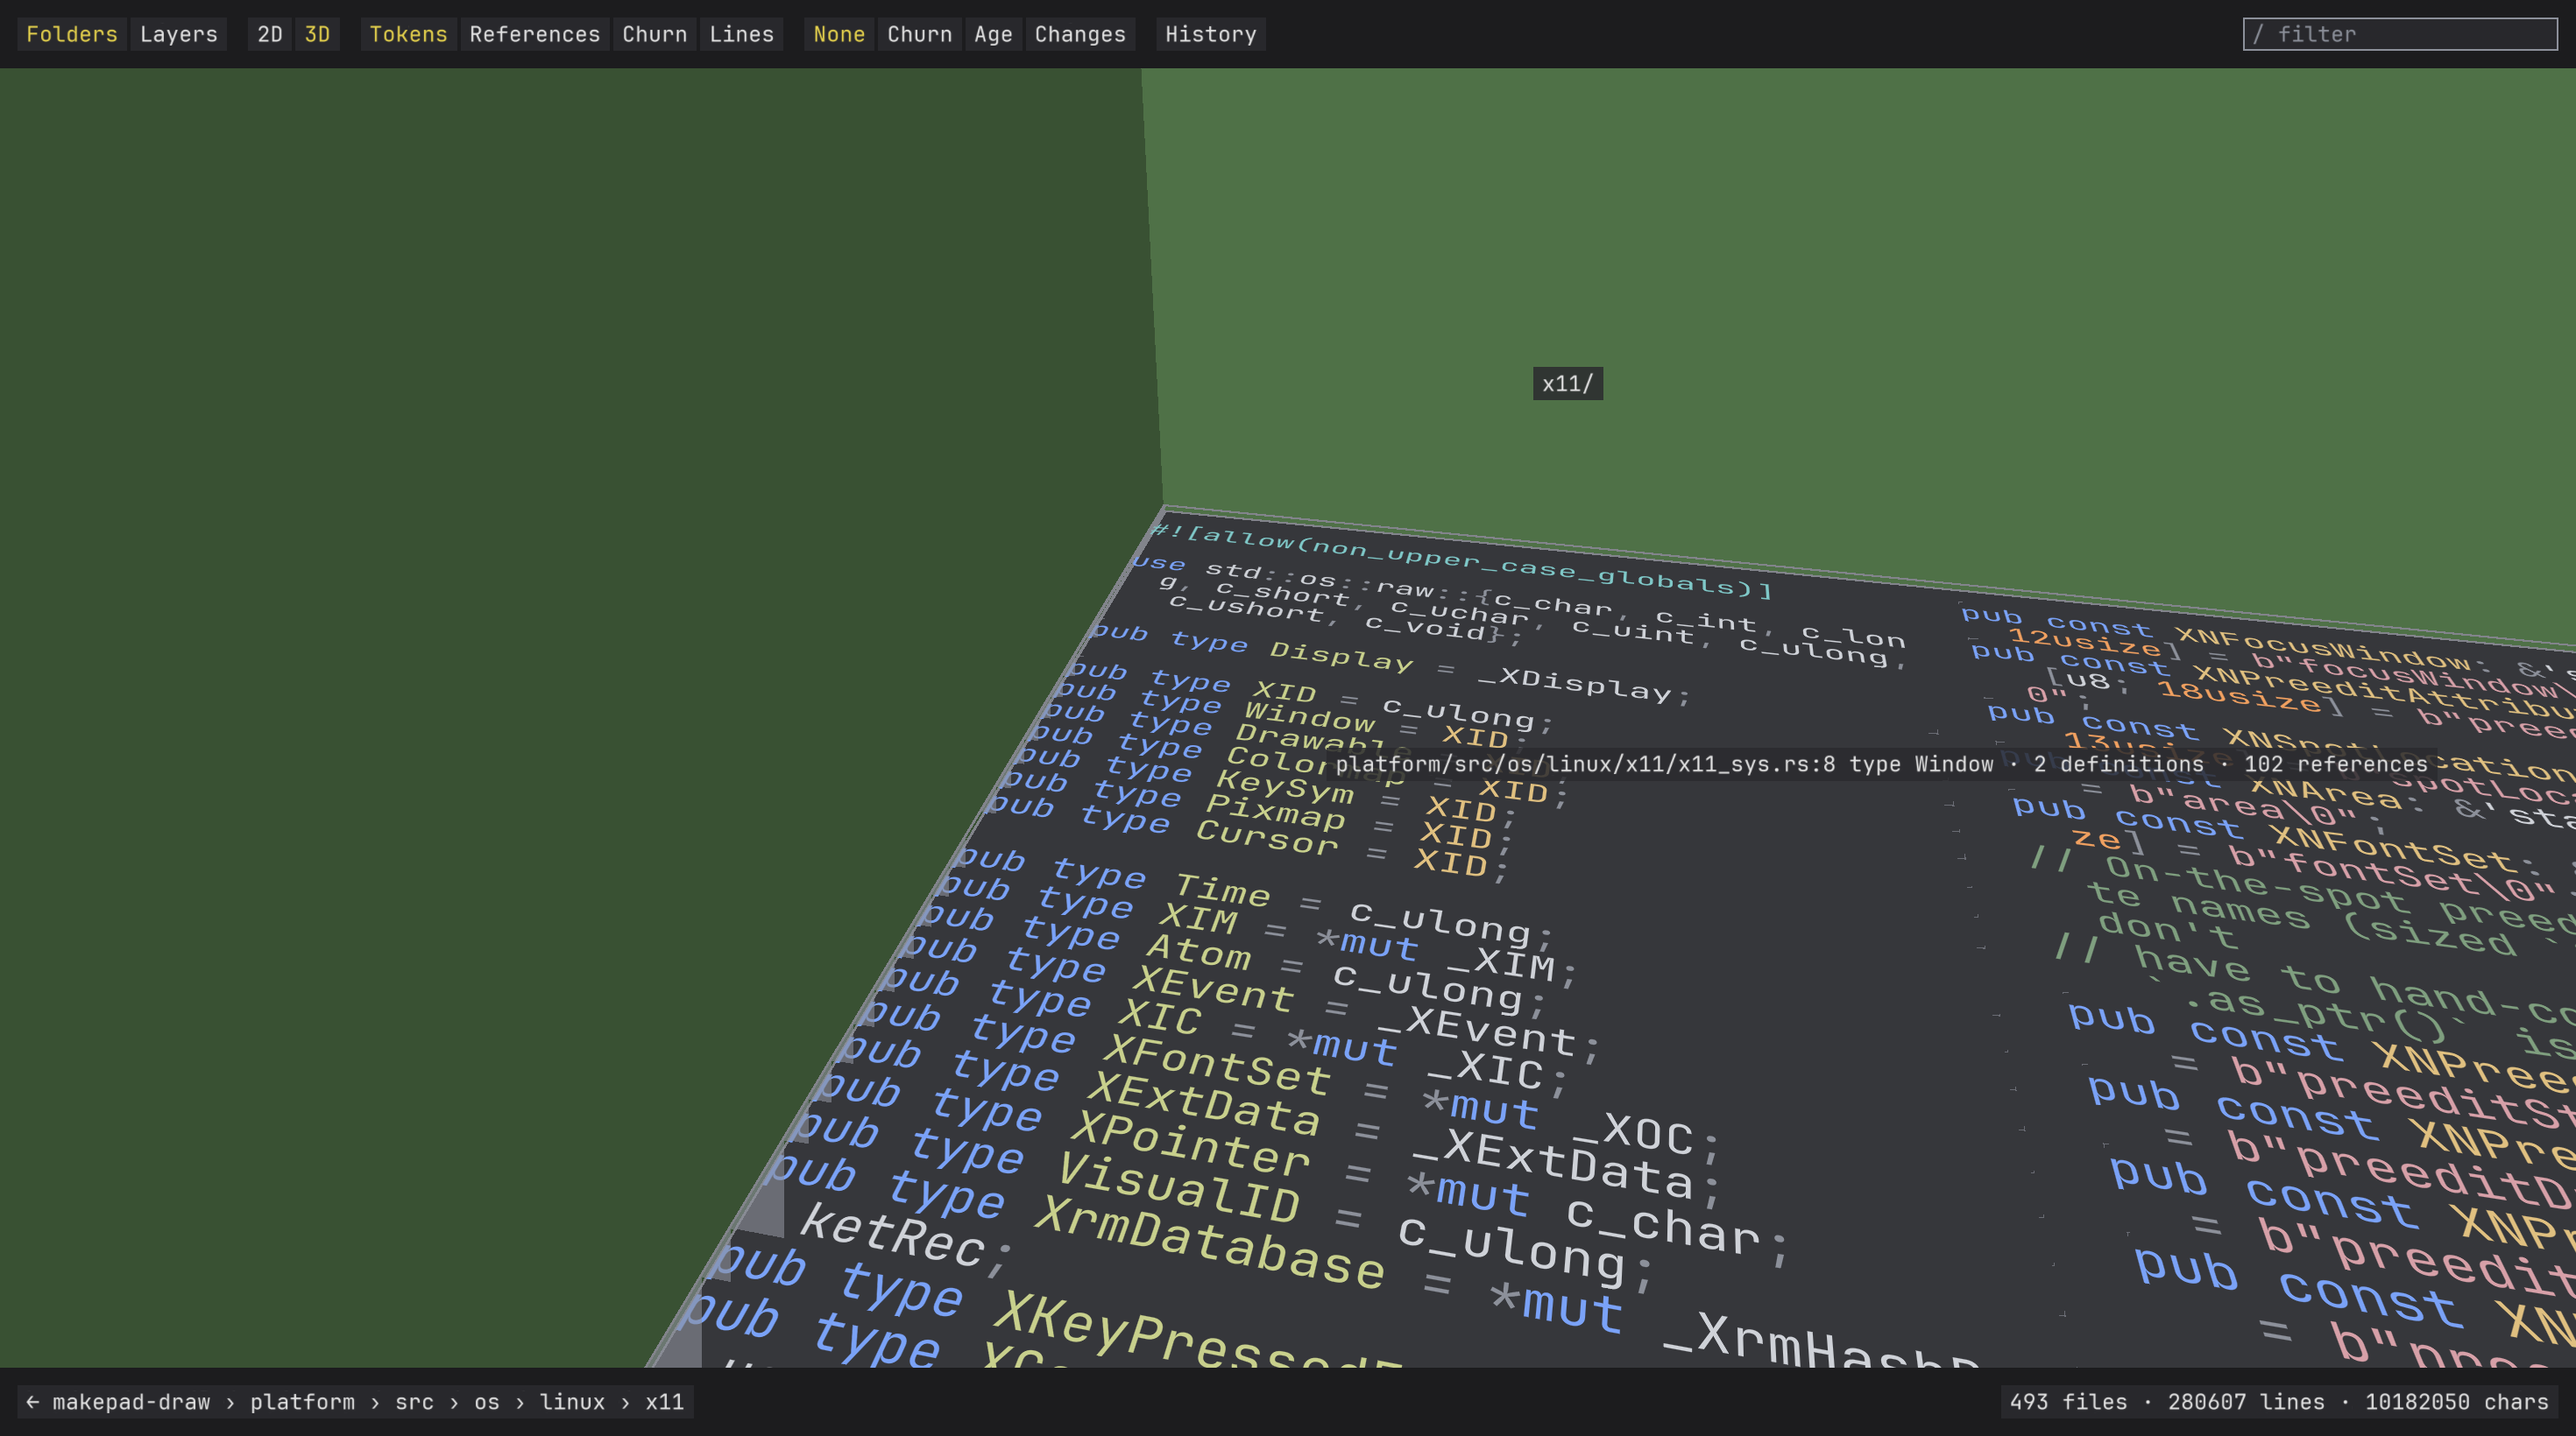
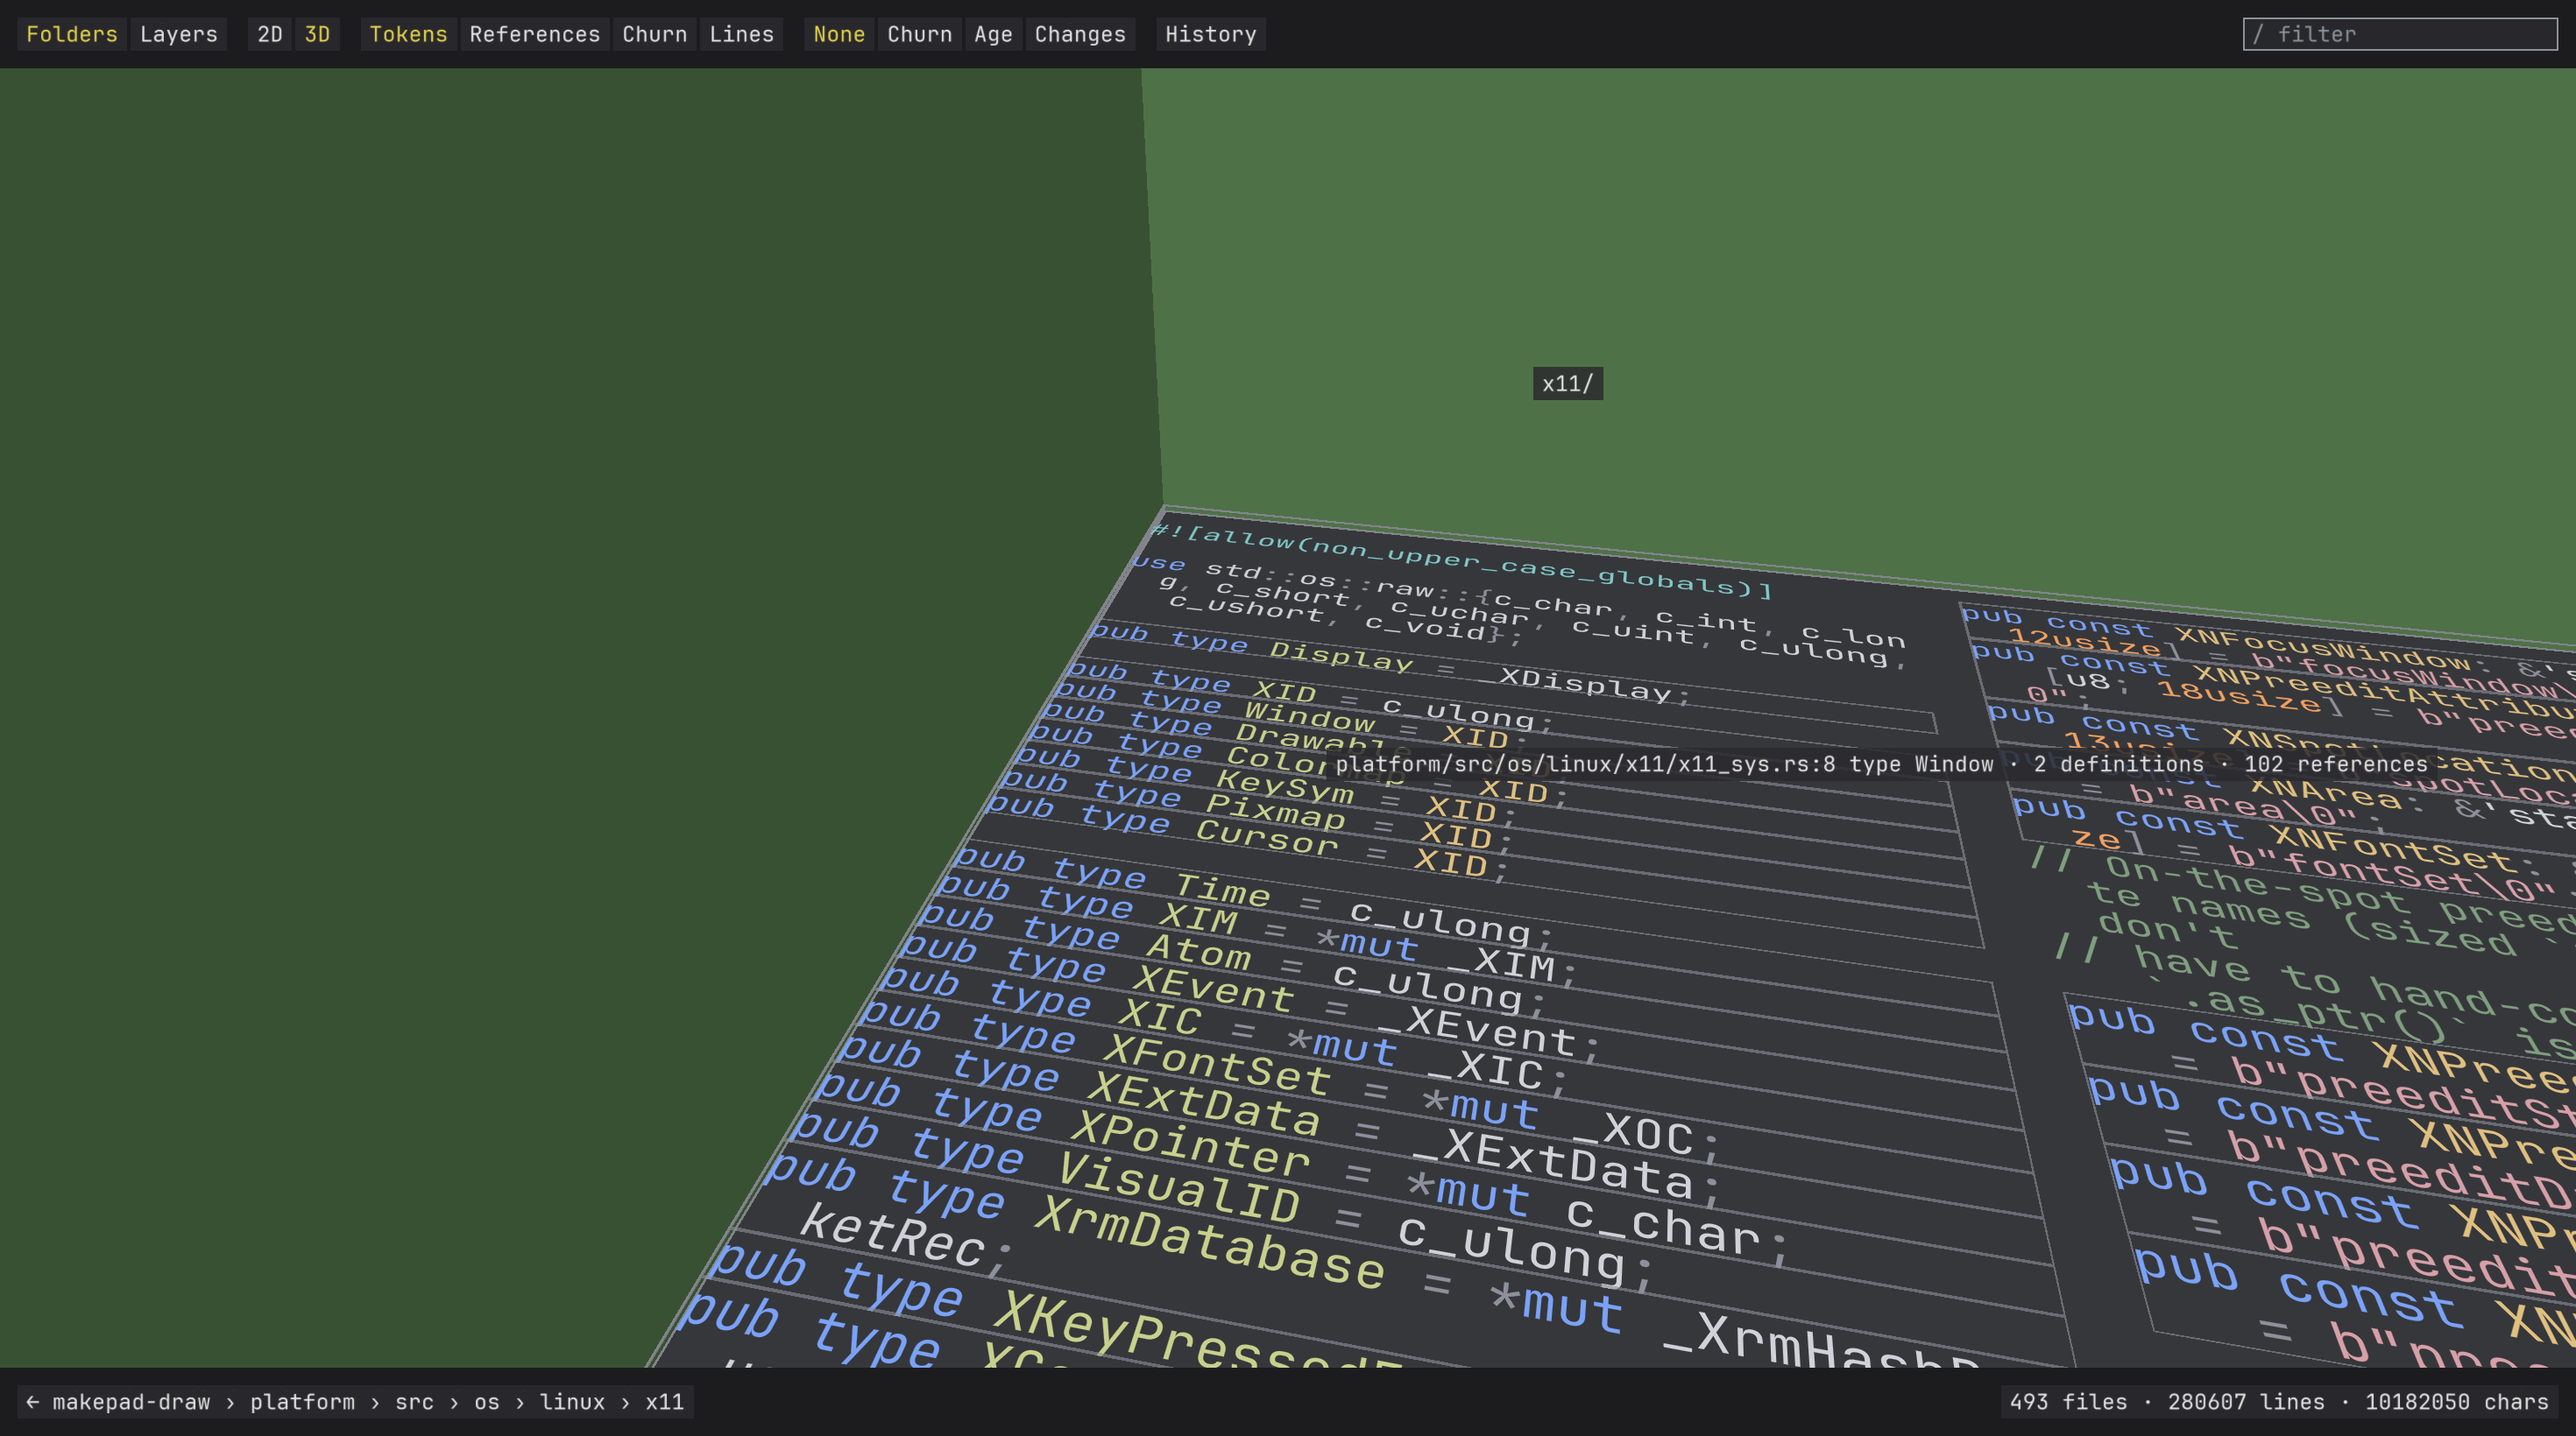
Fix two bugs the phase 6 demo surfaced: rect borders in perspective, textures unbound by a lens upload
rect.glsl measured its border in screen space against a box spanned by two projected opposite corners, which does not contain a perspective trapezoid, so at close range in 3D every item outline painted solid triangles over half of its rectangle (visible in the phase 3 and 4 shots at 3 px per line, read as texture then). The border is now measured in world units against the world size of a device pixel from fwidth, as file.glsl and dir.glsl do; the UI path keeps screen space. The 3D shots are regenerated.

upload_lens re-uploaded the file texture after a bare glBindTexture, which binds on the active unit, the vector tier's band texture after setup, so any colour lens blanked the vector text; layout switches could do the same through texture creation. bind_textures now binds every texture including the vector tier's and leaves the file texture's unit active, and runs after setup and every upload.

diff --git a/atlas_viewer.py b/atlas_viewer.py
@@ -954,11 +954,10 @@ class Viewer:
         self.tex_glyphs = texture_2d(GL_R8, GL_RED, GL_UNSIGNED_BYTE,
                                      self.glyphs[:, :, None], GL_LINEAR, mipmap=True)
         gpu += int(self.glyphs.nbytes * 4 / 3)
-        textures = [self.tex_chars, self.tex_kinds, self.tex_glyphs, self.tex_line_f,
-                    self.tex_line_u, self.tex_file_f, self.tex_file_u, self.tex_dir_f]
+        self.vt_textures = ()
         if self.vt is not None:
             import vt_glyphs
-            textures += list(vt_glyphs.make_textures(self.vt[0], self.vt[1]))
+            self.vt_textures = tuple(vt_glyphs.make_textures(self.vt[0], self.vt[1]))
             gpu += self.vt[0].nbytes + self.vt[1].nbytes
         self.gpu_bytes = gpu
 
@@ -988,9 +987,7 @@ class Viewer:
             loc = glGetUniformLocation(p, "uVtMin")
             if loc >= 0:
                 glUniform1f(loc, VT_MIN_PPL)
-        for i, tex in enumerate(textures):
-            glActiveTexture(GL_TEXTURE0 + i)
-            glBindTexture(GL_TEXTURE_2D, tex)
+        self.bind_textures()
 
     @property
     def lens(self):
@@ -1088,10 +1085,18 @@ class Viewer:
         return gpu
 
     def bind_textures(self):
-        for i, tex in enumerate([self.tex_chars, self.tex_kinds, self.tex_glyphs, self.tex_line_f,
-                                 self.tex_line_u, self.tex_file_f, self.tex_file_u, self.tex_dir_f]):
+        """Bind every texture to its unit, the vector tier's two included.
+        Called after anything created or re-uploaded a texture: texture
+        creation and glTexSubImage2D bind on whatever unit is active, which
+        after setup is the last one, the band texture's, so a lens upload
+        once replaced the bands with the file texture and the glyphs went
+        blank."""
+        textures = [self.tex_chars, self.tex_kinds, self.tex_glyphs, self.tex_line_f,
+                    self.tex_line_u, self.tex_file_f, self.tex_file_u, self.tex_dir_f] + list(self.vt_textures)
+        for i, tex in enumerate(textures):
             glActiveTexture(GL_TEXTURE0 + i)
             glBindTexture(GL_TEXTURE_2D, tex)
+        glActiveTexture(GL_TEXTURE0 + 5)          # uFileF: the unit a lens upload re-binds on
 
     def set_metric(self, metric):
         self.set_layout(metric)

diff --git a/docs/PARITY.md b/docs/PARITY.md
@@ -95,6 +95,6 @@ git submodule update --init big-picture makepad
 
 Each phase so far: its contract was written into `docs/DESIGN.md` first ("as built" sections at the end), the code was patched in the main session with anchored edits, every behaviour was verified by a screenshot taken with the viewer's flags (`--goto`, `--zoom`, `--filter`, `--step`, `--inspect`, `--inspector`, `--hover`, `--select`, `--lens`, `--metric`, `--proj --tilt --yaw`, `--color`, `--rev`, `--compare`, `--history`, `--shots`) and read back, then `docs/shots/README.md`, the README and this file were updated and the phase was committed and pushed. Keep that shape.
 
-Known rough edges, none blocking: in 3D the fitted view is a fixed tilt and yaw (55, 12 in the shots); the Layers lens has no crossing minimisation within a row (no edges are drawn, so none would show; a follow-up for when they are); the resolver's `ambiguous` and `not found` counts are large because there is no type inference (by design); the vector glyph tier is on by default from a measured 12 px per line and costs about a tenth more than the port it replaced (`--no-vector-text` if that matters); a past revision has HEAD's history, so the churn metric layout is the one it lacks. Closed after phase 5 (see DESIGN.md, "Rough edges closed after phase 5"): the toolbar, filter box, status, crumb trail and rail now sit in top and bottom strips and the right column, with the map's viewport the rectangle between them, so the fitted map is clear of every control; the window is sized to the work area so the framebuffer is 2940 by 1640 in every run and screenshots are reproducible; directory tags that cannot find a free place are skipped rather than stacked; a loaded revision gets its resolver and other layouts in the background about two seconds after the swap, so its metric buttons, Layers lens and entity views come alive without a camera move.
+Known rough edges, none blocking (two older bugs fixed after the phase 6 demo, see DESIGN.md "Found in the phase 6 demo": the 3D item outlines painting triangles at close range, and the vector tier going blank under a colour lens): in 3D the fitted view is a fixed tilt and yaw (55, 12 in the shots); the Layers lens has no crossing minimisation within a row (no edges are drawn, so none would show; a follow-up for when they are); the resolver's `ambiguous` and `not found` counts are large because there is no type inference (by design); the vector glyph tier is on by default from a measured 12 px per line and costs about a tenth more than the port it replaced (`--no-vector-text` if that matters); a past revision has HEAD's history, so the churn metric layout is the one it lacks. Closed after phase 5 (see DESIGN.md, "Rough edges closed after phase 5"): the toolbar, filter box, status, crumb trail and rail now sit in top and bottom strips and the right column, with the map's viewport the rectangle between them, so the fitted map is clear of every control; the window is sized to the work area so the framebuffer is 2940 by 1640 in every run and screenshots are reproducible; directory tags that cannot find a free place are skipped rather than stacked; a loaded revision gets its resolver and other layouts in the background about two seconds after the swap, so its metric buttons, Layers lens and entity views come alive without a camera move.
 
 Phase 7 starts with a DESIGN.md contract for the streaming working set (row 32): per-file instance ranges under a byte budget and retirement of files off screen, only once a corpus that needs it exists.

diff --git a/docs/DESIGN.md b/docs/DESIGN.md
@@ -467,3 +467,11 @@ Results (README, Implementation): against exact coverage the Slug tier's ink err
 `dobbie/fetch.sh` was exercised: two files deleted and fetched again, twelve verified. The indexer, the layout, the viewer and every test run with no font on the machine. The screenshots were regenerated with the bundled face and the vector tier on; the layouts were rebuilt for its character aspect (0.5714 against Menlo's 0.5711 under the same ink-box rule, so nothing visible moved). `THIRD_PARTY_NOTICES` lists Slug, JetBrains Mono, the Dobbie demos (not included) and the submodules.
 
 Not done, by design: the history rewrite. Every commit before phase 6 holds the ten demo files and the port; `git filter-repo` on those paths, or a fresh root, before the repository goes public.
+
+## Found in the phase 6 demo
+
+Two bugs, both older than phase 6, surfaced when the viewer was run interactively with everything on.
+
+The vector tier went blank whenever a colour lens was set. `upload_lens` re-uploaded the file texture with `glTexSubImage2D` after a bare `glBindTexture`, which binds on whatever texture unit is active; after setup that is the last unit, the vector tier's band texture, so the lens upload replaced the bands with the file texture. Texture creation in `upload_layout` binds the same way, so a layout switch could do it too. `bind_textures` now binds every texture including the vector tier's two and leaves unit 5 (the file texture) active, and is called after setup and after every upload. The screenshot sets never showed it because no shot combined a lens with text zoom.
+
+In 3D at close range the item outlines painted solid triangles over half of every rectangle. `rect.glsl` measured its border in screen space against a box spanned by two projected opposite corners, which does not contain a perspective trapezoid; every fragment outside the box had a negative distance and took the border colour. The border is now measured in world units against the world size of a device pixel from `fwidth`, as `file.glsl` and `dir.glsl` already did; the UI path keeps its screen-space measure. The phase 3 and 4 shots at 3 px per line had the artefact and it was read as texture at the time.
